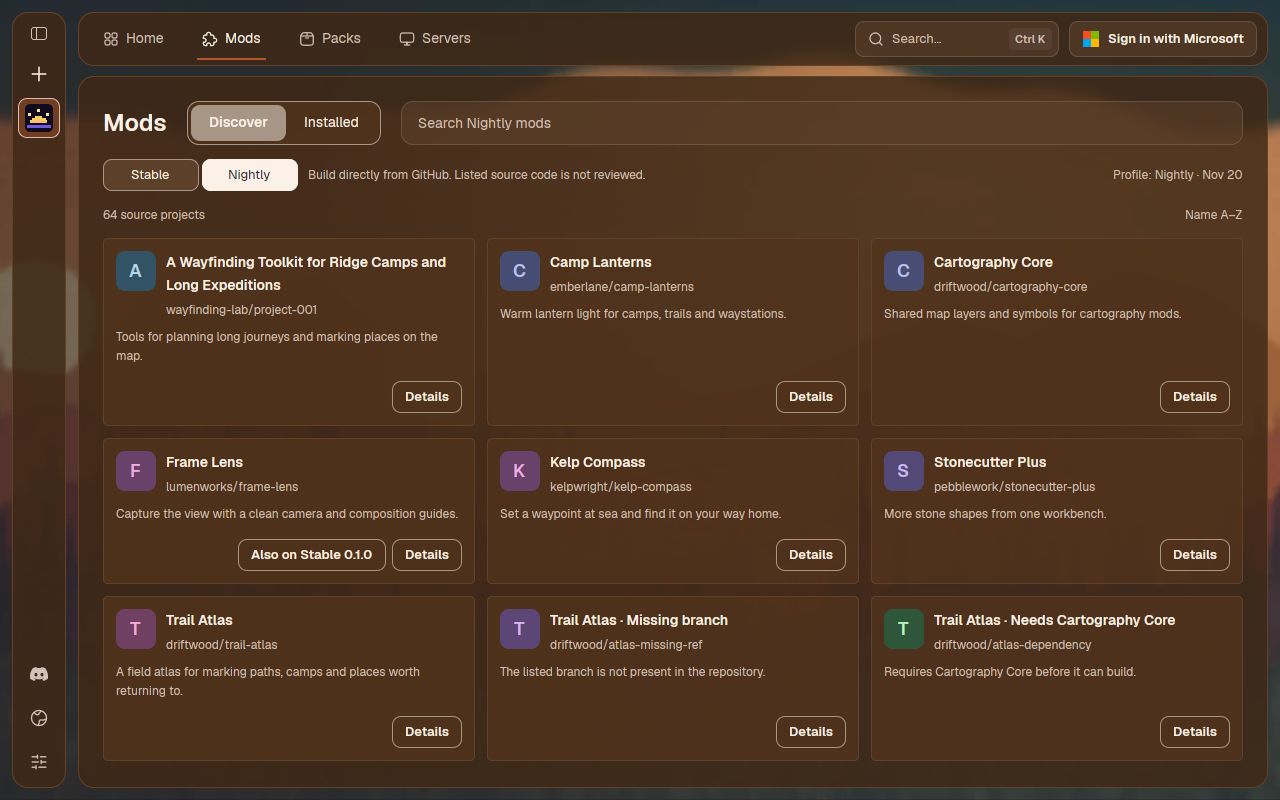
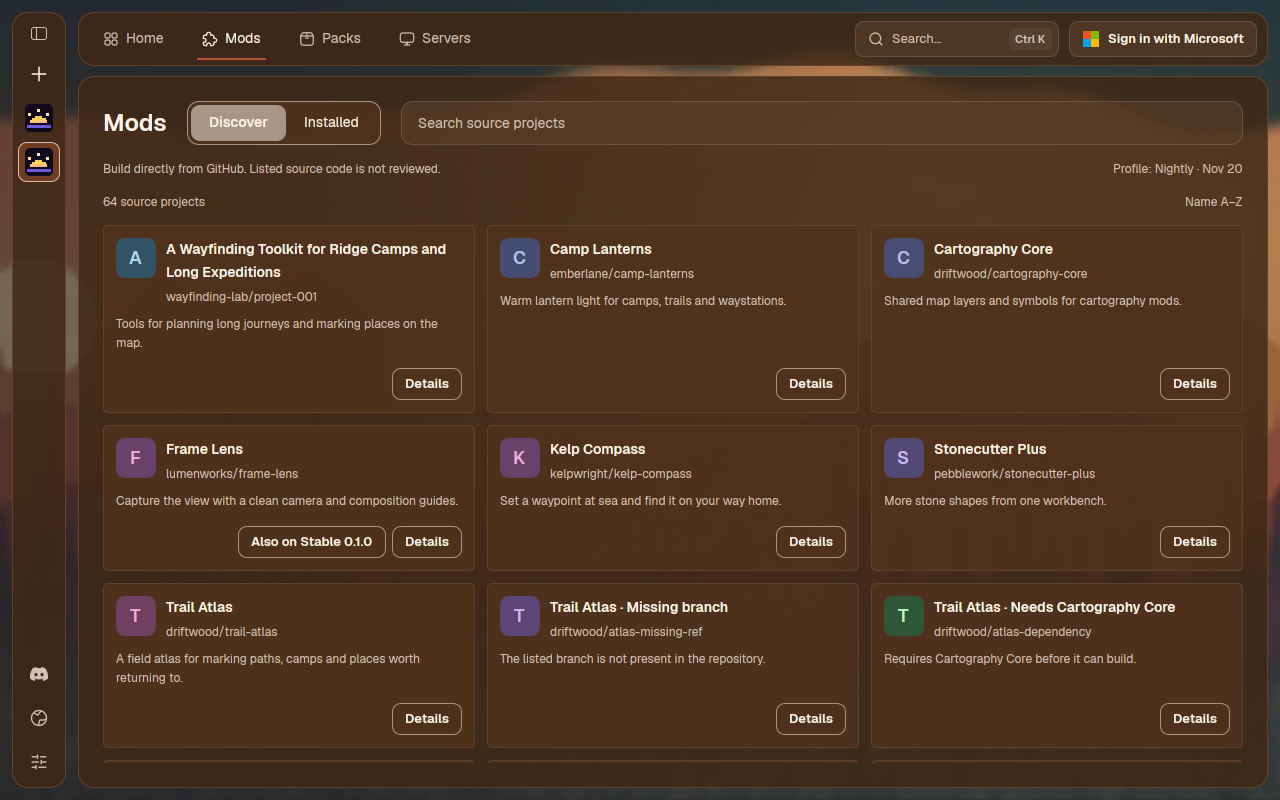
Capture profile-only Discover and the revised source consent

diff --git a/rollup7-6691547f9-final/README.md b/rollup7-6691547f9-final/README.md
@@ -1,6 +1,6 @@
 # Rollup 7 launcher walkthrough
 
-Checked head: `6691547f92f9759e42f4cc5f8f7b0427602a8789`. These are real Linux launcher or terminal captures.
+Checked head: `0f78e6f37d2b4240dca9d49b7adf86dc130a8036`. These are real Linux launcher or terminal captures.
 Earlier frames show unchanged screens; the last column gives the exact source head of each capture.
 Home uses a synthetic account. No Minecraft gameplay or third-party mod compilation or execution was needed for the walkthrough.
 At 800×600 the bottom of the disabled Extras note in the Home build menu remains clipped, as on the preceding build.
@@ -18,10 +18,10 @@ At 800×600 the bottom of the disabled Extras note in the Home build menu remain
 
 | File | What it shows | Source head |
 |---|---|---|
-| [discover-stable-800x600.png](discover-stable-800x600.png) | Stable Discover shows the registry fixture and Fits my game on a Stable · 0.1.0 profile. | `6691547f92f9759e42f4cc5f8f7b0427602a8789` |
-| [discover-stable-1280x800.png](discover-stable-1280x800.png) | Stable Discover shows the registry fixture and Fits my game on a Stable · 0.1.0 profile. | `6691547f92f9759e42f4cc5f8f7b0427602a8789` |
-| [discover-nightly-800x600.png](discover-nightly-800x600.png) | Nightly Discover lists source projects on a profile pinned to the published Nightly · Nov 20 build. | `6691547f92f9759e42f4cc5f8f7b0427602a8789` |
-| [discover-nightly-1280x800.png](discover-nightly-1280x800.png) | Nightly Discover lists source projects on a profile pinned to the published Nightly · Nov 20 build. | `6691547f92f9759e42f4cc5f8f7b0427602a8789` |
+| [discover-stable-800x600.png](discover-stable-800x600.png) | The Stable profile shows only registry mods and keeps the Stable · 0.1.0 build label. | `0f78e6f37d2b4240dca9d49b7adf86dc130a8036` |
+| [discover-stable-1280x800.png](discover-stable-1280x800.png) | The Stable profile shows only registry mods and keeps the Stable · 0.1.0 build label. | `0f78e6f37d2b4240dca9d49b7adf86dc130a8036` |
+| [discover-nightly-800x600.png](discover-nightly-800x600.png) | The published Nightly · Nov 20 profile shows only source projects, the unreviewed-code note, and Also on Stable. | `0f78e6f37d2b4240dca9d49b7adf86dc130a8036` |
+| [discover-nightly-1280x800.png](discover-nightly-1280x800.png) | The published Nightly · Nov 20 profile shows only source projects, the unreviewed-code note, and Also on Stable. | `0f78e6f37d2b4240dca9d49b7adf86dc130a8036` |
 
 ## Installed
 
@@ -49,8 +49,8 @@ At 800×600 the bottom of the disabled Extras note in the Home build menu remain
 |---|---|---|
 | [nightly-readme-800x600.png](nightly-readme-800x600.png) | Nightly mod Details show the pinned repository’s README. | `7dd5ea80f619c52dfadba5c3a9e09c3db4f2dbf5` |
 | [nightly-readme-1280x800.png](nightly-readme-1280x800.png) | Nightly mod Details show the pinned repository’s README. | `7dd5ea80f619c52dfadba5c3a9e09c3db4f2dbf5` |
-| [nightly-source-consent-800x600.png](nightly-source-consent-800x600.png) | Review the repository and source package before allowing its native build. | `7dd5ea80f619c52dfadba5c3a9e09c3db4f2dbf5` |
-| [nightly-source-consent-1280x800.png](nightly-source-consent-1280x800.png) | Review the repository and source package before allowing its native build. | `7dd5ea80f619c52dfadba5c3a9e09c3db4f2dbf5` |
+| [nightly-source-consent-800x600.png](nightly-source-consent-800x600.png) | Consent says Sunrise has not reviewed the code and that building and playing run it. Repository, commit, View source, Cancel and Build remain. | `0f78e6f37d2b4240dca9d49b7adf86dc130a8036` |
+| [nightly-source-consent-1280x800.png](nightly-source-consent-1280x800.png) | Consent says Sunrise has not reviewed the code and that building and playing run it. Repository, commit, View source, Cancel and Build remain. | `0f78e6f37d2b4240dca9d49b7adf86dc130a8036` |
 | [nightly-toolchain-progress-800x600.png](nightly-toolchain-progress-800x600.png) | The required Rust toolchain is downloading. | `7dd5ea80f619c52dfadba5c3a9e09c3db4f2dbf5` |
 | [nightly-toolchain-progress-1280x800.png](nightly-toolchain-progress-1280x800.png) | The required Rust toolchain is downloading. | `7dd5ea80f619c52dfadba5c3a9e09c3db4f2dbf5` |
 | [nightly-build-progress-800x600.png](nightly-build-progress-800x600.png) | The source build is in progress. | `7dd5ea80f619c52dfadba5c3a9e09c3db4f2dbf5` |
@@ -59,8 +59,8 @@ At 800×600 the bottom of the disabled Extras note in the Home build menu remain
 | [nightly-build-failed-1280x800.png](nightly-build-failed-1280x800.png) | The source build failed; Details shows the failure and a link to the attempt log. | `7dd5ea80f619c52dfadba5c3a9e09c3db4f2dbf5` |
 | [nightly-missing-manifest-800x600.png](nightly-missing-manifest-800x600.png) | The candidate has no usable mod manifest at the checked ref. | `7dd5ea80f619c52dfadba5c3a9e09c3db4f2dbf5` |
 | [nightly-missing-manifest-1280x800.png](nightly-missing-manifest-1280x800.png) | The candidate has no usable mod manifest at the checked ref. | `7dd5ea80f619c52dfadba5c3a9e09c3db4f2dbf5` |
-| [nightly-offline-saved-list-800x600.png](nightly-offline-saved-list-800x600.png) | The saved source catalog remains browseable offline on the same Nightly · Nov 20 profile. | `6691547f92f9759e42f4cc5f8f7b0427602a8789` |
-| [nightly-offline-saved-list-1280x800.png](nightly-offline-saved-list-1280x800.png) | The saved source catalog remains browseable offline on the same Nightly · Nov 20 profile. | `6691547f92f9759e42f4cc5f8f7b0427602a8789` |
+| [nightly-offline-saved-list-800x600.png](nightly-offline-saved-list-800x600.png) | The Nightly · Nov 20 profile shows the previously saved source catalog while offline. | `0f78e6f37d2b4240dca9d49b7adf86dc130a8036` |
+| [nightly-offline-saved-list-1280x800.png](nightly-offline-saved-list-1280x800.png) | The Nightly · Nov 20 profile shows the previously saved source catalog while offline. | `0f78e6f37d2b4240dca9d49b7adf86dc130a8036` |
 | [nightly-mixed-update-review-800x600.png](nightly-mixed-update-review-800x600.png) | **Update all** reviews Frontier (registry) and Trail Atlas (source) together, with the neutral native-content warning for each. Cancel left both unchanged. | `6691547f92f9759e42f4cc5f8f7b0427602a8789` |
 | [nightly-mixed-update-review-1280x800.png](nightly-mixed-update-review-1280x800.png) | **Update all** reviews Frontier (registry) and Trail Atlas (source) together, with the neutral native-content warning for each. Cancel left both unchanged. | `6691547f92f9759e42f4cc5f8f7b0427602a8789` |
 
